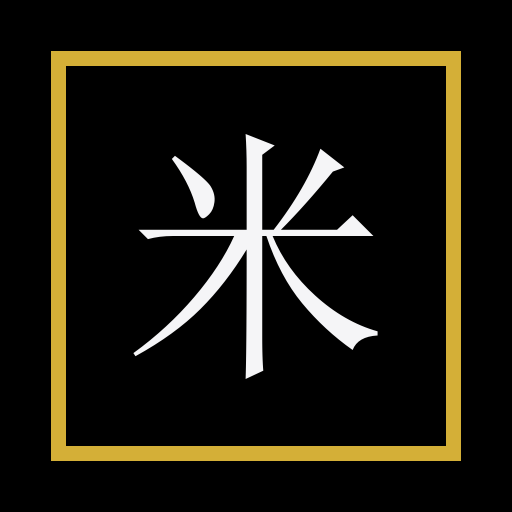
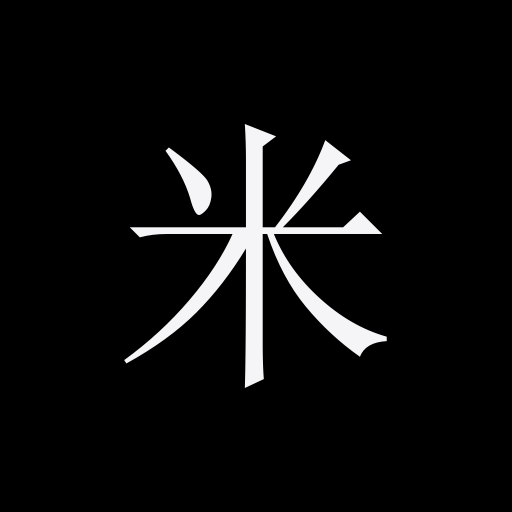
ui: 顶栏移除馆内导航，画框去金改无框「抬起」
- 首页/逐图页顶栏删「展厅/前言/库房」跳链（生成器同步），只剩馆名与右侧动作
- 卡片与灯箱去 #d4af37 实体金框：照片贴边、圆角 --r-md + 分层投影（与序厅/逐图页同语言）
- 品牌资产（图标/og）随去金重绘：纯字形图标 + 无框分享图
- e2e 改写画心几何断言为「贴边无框」并新增灯箱无框契约（红态验证过）；README/AGENTS 同步

diff --git a/styles.css b/styles.css
@@ -290,24 +290,6 @@
     text-decoration: none;
   }
 
-  .site-nav-links {
-    display: flex;
-    gap: 26px;
-  }
-
-  .site-nav-links a {
-    font-size: 13px;
-    font-weight: 500;
-    letter-spacing: 0.04em;
-    color: var(--text-2);
-    transition: color 0.25s var(--ease);
-  }
-
-  .site-nav-links a:hover {
-    color: var(--text);
-    text-decoration: none;
-  }
-
   /* 主题切换按钮 */
   .theme-toggle {
     appearance: none;
@@ -957,25 +939,21 @@
 
     /* 本盒不裁切：::before 的环境光必须能溢出到卡片之外。
        裁切职责交给 .card-media-glass（只包画心），否则 overflow:hidden
-       会把环境光一并裁掉，只剩框内 4px 可见。 */
+       会把环境光一并裁掉。 */
     overflow: visible;
 
     --card-wall: #1c1c1e;
     --card-glow: rgba(255, 255, 255, 0.08);
     --card-accent: rgba(255, 255, 255, 0.1);
 
-    /* 画心内衬：留出细边，照片不贴边 */
-    --frame-inset: 4px;
-
+    /* 无框画心（2026-10-17 去金框）：照片贴边、圆角 + 分层投影 —— 与序厅/逐图页
+       同一「抬起」语言。金边与内衬（`--frame-inset`）不要加回来。 */
     width: 100%;
     aspect-ratio: 4 / 3;
-    padding: var(--frame-inset);
-    border: 4px solid #d4af37;
-    border-radius: var(--r-lg);
+    border-radius: var(--r-md);
     background: var(--surface);
     box-shadow: var(--shadow-1);
-    transition: box-shadow 0.45s var(--ease), border-color 0.45s var(--ease),
-      transform 0.45s var(--ease);
+    transition: box-shadow 0.45s var(--ease), transform 0.45s var(--ease);
   }
 
   /* D-1：低分辨率母版（短边 ≤ 640 的源，如《夜泊》360×360）画心盒宽钳到源宽 ——
@@ -1005,12 +983,12 @@
     transition: opacity 0.45s var(--ease), transform 0.45s var(--ease);
   }
 
-  /* 画心裁切盒：只承担「hover 缩放不出框」的裁剪 */
+  /* 画心裁切盒：只承担「hover 缩放不出框」的裁剪；贴边，圆角继承画心盒 */
   .card-media-glass {
     position: absolute;
-    inset: var(--frame-inset);
+    inset: 0;
     overflow: hidden;
-    border-radius: calc(var(--r-lg) - var(--frame-inset) - 2px);
+    border-radius: inherit;
   }
 
   .card-media img {
@@ -1030,7 +1008,6 @@
   /* hover / 键盘聚焦 = 抬起 + 环境光变亮 */
   .card:hover .card-media,
   .card:focus-visible .card-media {
-    border-color: var(--hairline);
     box-shadow: var(--shadow-2);
     transform: translateY(-3px);
   }
@@ -1407,11 +1384,10 @@
     -webkit-user-select: none;
   }
 
-  /* 画作容器：图不得大于框 */
+  /* 画作容器：图不得大于框。无框「抬起」（2026-10-17 去金框）：盒子即画心，
+     只有圆角与投影 —— 金边 / 内衬 / 金底不要加回来（`frameCaps` 读的是
+     .lightbox-img 的计算 max-width/height，与这里的 --frame-max-* 同源）。 */
   .lightbox-frame {
-    --frame-pad: 6px;
-    --frame-border: 4px;
-
     /* 观画室放足画面：上限取 72vh，竖构图才撑得开（横构图先触 940px 宽度限） */
     --frame-max-w: min(86vw, 940px);
     --frame-max-h: min(72vh, 760px);
@@ -1425,16 +1401,13 @@
     display: flex;
     align-items: center;
     justify-content: center;
-    padding: var(--frame-pad);
-    border: var(--frame-border) solid #d4af37;
-    border-radius: 18px;
-    background: color-mix(in oklab, #d4af37 15%, transparent);
-    box-shadow: 0 40px 100px rgba(0, 0, 0, 0.5), inset 0 0 20px rgba(212, 175, 55, 0.25);
+    border-radius: var(--r-md);
+    box-shadow: 0 40px 100px rgba(0, 0, 0, 0.5);
     overflow: hidden;
   }
 
-  /* 观画室：无框反光，只有墙面的环境光。
-     但 .lightbox-frame.is-lit img 的 animation:none 是**生效**的
+  /* 观画室：无框反光，只有墙面的环境光；去金框后这层同时是「画心贴边」的裁剪盒。
+     其中 .lightbox-frame.is-lit img 的 animation:none 是**生效**的
      ——它关掉 .lightbox-img 的 lb-in 入场动画，故保留。 */
   .lightbox-frame.is-lit img {
     animation: none;
@@ -1445,10 +1418,10 @@
     display: block;
     width: auto;
     height: auto;
-    max-width: calc(var(--frame-max-w, 940px) - 2 * var(--frame-pad, 6px) - 2 * var(--frame-border, 4px));
-    max-height: calc(var(--frame-max-h, 760px) - 2 * var(--frame-pad, 6px) - 2 * var(--frame-border, 4px));
+    max-width: var(--frame-max-w, 940px);
+    max-height: var(--frame-max-h, 760px);
     object-fit: contain;
-    border-radius: 12px;
+    border-radius: var(--r-md);
     animation: lb-in 0.4s var(--ease) both;
     transform: translate(var(--lb-tx, 0), var(--lb-ty, 0)) scale(var(--lb-zoom, 1));
     transition: transform 0.35s var(--ease);
@@ -1911,15 +1884,6 @@
       letter-spacing: 0.06em;
     }
 
-    .site-nav-links {
-      gap: 16px;
-    }
-
-    .site-nav-links a {
-      font-size: 12px;
-      letter-spacing: 0.02em;
-    }
-
     /* 展签页：窄屏收边距、题名降一档；两侧占位同步收窄，否则中缝被挤出
        （320px 下 3 段宽度和会超过内容宽导致换行） */
     .work {
@@ -1995,17 +1959,6 @@
       padding: 20px 18px 8px;
     }
 
-    .card-media {
-      border-width: 1px;
-      border-radius: 16px;
-
-      --frame-inset: 3px;
-    }
-
-    .card-media-glass {
-      border-radius: 12px;
-    }
-
     .filter-bar {
       margin: 0 auto 24px;
       padding: 0 16px;
@@ -2040,7 +1993,6 @@
     }
 
     .lightbox-frame {
-      --frame-pad: 4px;
       --frame-max-w: min(94vw, 900px);
       --frame-max-h: min(70vh, 640px);
     }

diff --git a/tests/e2e/smoke.spec.js b/tests/e2e/smoke.spec.js
@@ -1018,17 +1018,23 @@ test.describe("画廊冒烟", () => {
       const media = document.querySelector(".card-media");
       const glass = media.querySelector(".card-media-glass");
       const img = glass.querySelector("img");
-      const border = parseFloat(getComputedStyle(media).borderLeftWidth);
+      const cs = getComputedStyle(media);
       const mediaBox = media.getBoundingClientRect();
+      const glassBox = glass.getBoundingClientRect();
       return {
-        mediaOverflow: getComputedStyle(media).overflow,
+        mediaOverflow: cs.overflow,
         glassOverflow: getComputedStyle(glass).overflow,
         // content-visibility:auto 隐含 paint containment，会把 ::before 溢出的墙面光裁掉；
         // 该 containment 在 getComputedStyle().contain 上不可见，只能锁 content-visibility 本身
         cardContentVisibility: getComputedStyle(media.closest(".card"))
           .contentVisibility,
-        gutter: mediaBox.width - img.getBoundingClientRect().width,
-        expected: border * 2 + 4 * 2,
+        // 去金框后画心贴边（2026-10-17）：画心盒无边框、无内衬，照片与盒同宽
+        mediaBorder: cs.borderLeftWidth,
+        glassInset: { l: glassBox.x - mediaBox.x, t: glassBox.y - mediaBox.y },
+        glassRadius: getComputedStyle(glass).borderRadius,
+        mediaRadius: cs.borderRadius,
+        imgWidth: img.getBoundingClientRect().width,
+        mediaWidth: mediaBox.width,
       };
     });
 
@@ -1037,8 +1043,51 @@ test.describe("画廊冒烟", () => {
     expect(geom.glassOverflow).toBe("hidden");
     // 卡片不得开启会被动裁剪子盒的渲染跳过
     expect(geom.cardContentVisibility).toBe("visible");
-    // 画心几何与拆分前一致：border 2px + --frame-inset 4px，两侧共 12px
-    expect(Math.abs(geom.gutter - geom.expected)).toBeLessThan(0.5);
+    // 无框化：边框为 0、玻璃盒贴边（无内衬）、照片占满画心盒、圆角继承同一值
+    expect(parseFloat(geom.mediaBorder)).toBe(0);
+    expect(Math.abs(geom.glassInset.l)).toBeLessThan(0.5);
+    expect(Math.abs(geom.glassInset.t)).toBeLessThan(0.5);
+    expect(Math.abs(geom.imgWidth - geom.mediaWidth)).toBeLessThan(0.5);
+    expect(geom.glassRadius).toBe(geom.mediaRadius);
+  });
+
+  test("观画室同构无框：灯箱画框无边框无内衬，盒子即画心（去金框回归）", async ({ page }) => {
+    await page.setViewportSize({ width: 1280, height: 900 });
+    await page.goto("/");
+    await expect(page.locator(".card")).toHaveCount(18);
+    await page.locator(".card").first().click();
+    await expect(page.locator("#lightbox")).toBeVisible();
+    // 尺寸由真实位图决定：等解码完成再量盒子，否则量到的是加载前的塌缩盒（0×0）
+    await page.waitForFunction(() => {
+      const img = document.getElementById("lbImg");
+      return Boolean(img && img.complete && img.naturalWidth > 0);
+    });
+
+    const geom = await page.evaluate(() => {
+      const frame = document.querySelector(".lightbox-frame");
+      const img = document.getElementById("lbImg");
+      const cs = getComputedStyle(frame);
+      return {
+        border: cs.borderLeftWidth,
+        padding: cs.paddingLeft,
+        background: cs.backgroundColor,
+        // 无内衬后画框盒 = 画心盒：偏移 0、尺寸相等。
+        // 用 offset*（布局量）而非 getBoundingClientRect——后者含 lb-enter 入场
+        // 动画的 scale(0.96→1)「视觉」变换，动画中途量到的矩形必然小于布局盒。
+        offset: { l: img.offsetLeft, t: img.offsetTop },
+        fw: frame.offsetWidth,
+        fh: frame.offsetHeight,
+        iw: img.offsetWidth,
+        ih: img.offsetHeight,
+      };
+    });
+
+    expect(parseFloat(geom.border)).toBe(0);
+    expect(parseFloat(geom.padding)).toBe(0);
+    expect(geom.background).toBe("rgba(0, 0, 0, 0)");
+    expect(geom.offset).toEqual({ l: 0, t: 0 });
+    expect(geom.iw).toBe(geom.fw);
+    expect(geom.ih).toBe(geom.fh);
   });
 
   test("窄屏箭头隐藏且不覆盖画心，翻页交回手势", async ({ page }) => {

diff --git a/index.html b/index.html
@@ -114,12 +114,9 @@
   <a class="skip-link" href="#gallery">跳到展厅</a>
   <header class="site-nav" id="siteNav">
     <div class="site-nav-inner">
+      <!-- 顶栏不设馆内导航（2026-10-17 起）：序厅大字/滚动陈列本身就是入口，
+           「展厅 / 前言 / 库房」三个跳链已按站主反馈移除。逐图页同构（见 gen_work_pages.mjs）。 -->
       <a class="site-nav-logo" href="#">米兰美术馆</a>
-      <nav class="site-nav-links" aria-label="馆内导航">
-        <a href="#gallery">展厅</a>
-        <a href="#about">前言</a>
-        <a href="#archive">库房</a>
-      </nav>
       <div class="site-nav-actions">
         <!-- 安装到桌面：默认隐藏。beforeinstallprompt 不是 Baseline（Firefox / iOS
              Safari 不派发），只有它真的到来才说明此刻这台浏览器可安装 —— 时序由

diff --git a/tools/gen_assets.py b/tools/gen_assets.py
@@ -2,10 +2,11 @@
 
 幂等：python tools/gen_assets.py 直接重新生成。
 
-配色取当前视觉语言的 token（2026-10-16 重绘：Apple 式中性表面 + 金色实体画框）：
+配色取当前视觉语言的 token（2026-10-17 重绘：画框去金化，品牌图随之一并去框）：
 黑底是暗色主题的 --bg（styles.css 的 `--bg: light-dark(#fff, #000)`），
-金框取画框色（.card-media / .lightbox-frame 的 `#d4af37`），字色是暗色侧的
---text。**不要**写回旧的墨绿（`#1f2a24` 系列）——那是已退役的「油画馆」时期的配色。
+字色是暗色侧的 --text（IVORY），副题与分隔线走中性灰。
+**不要**写回旧的墨绿（`#1f2a24` 系列）或 2026-10-16 的金框（`#d4af37`）——
+两者都是已退役的时期配色（金框随 2026-10-17 的画框重设计一起退役）。
 """
 from __future__ import annotations
 
@@ -17,10 +18,9 @@ ROOT = Path(__file__).resolve().parents[1]
 OUT = ROOT / "assets"
 
 INK = (0, 0, 0)  # 底色：暗色主题的 --bg
-GOLD = (212, 175, 55)  # 金框 #d4af37（画框的实体金边）
-GOLD_DARK = (138, 111, 42)  # 双线内框（og 分享图用）
 IVORY = (245, 245, 247)  # 题名字色：暗色侧的 --text
 GRAY = (161, 161, 166)  # 副题色：暗色侧的 --text-2
+LINE = (110, 110, 115)  # 分隔线：中性灰（画框去金后不再有金色点缀）
 
 
 def font(size: int) -> ImageFont.FreeTypeFont:
@@ -32,17 +32,11 @@ def font(size: int) -> ImageFont.FreeTypeFont:
     return ImageFont.load_default()
 
 
-def icon(size: int, *, border_ratio: float, glyph_ratio: float) -> Image.Image:
+def icon(size: int, *, glyph_ratio: float) -> Image.Image:
+    """纯字形图标：黑底 + 米字。不再画框 —— 边框曾是金框时期的呼应，
+    已随画框「去框化」退役（画框 = 圆角 + 投影，没有边框可呼应）。"""
     img = Image.new("RGB", (size, size), INK)
     d = ImageDraw.Draw(img)
-    if border_ratio > 0:
-        inset = int(size * border_ratio)
-        width = max(2, int(size * 0.03))
-        d.rectangle(
-            [inset, inset, size - inset - 1, size - inset - 1],
-            outline=GOLD,
-            width=width,
-        )
     f = font(int(size * glyph_ratio))
     d.text((size / 2, size / 2), "米", font=f, fill=IVORY, anchor="mm")
     return img
@@ -52,9 +46,7 @@ def og() -> Image.Image:
     w, h = 1200, 630
     img = Image.new("RGB", (w, h), INK)
     d = ImageDraw.Draw(img)
-    # 双线画框（外金内暗金，与灯箱的半透明金底同构）
-    d.rectangle([28, 28, w - 29, h - 29], outline=GOLD, width=3)
-    d.rectangle([40, 40, w - 41, h - 41], outline=GOLD_DARK, width=1)
+    # 无框分享图（2026-10-17 去金化）：只有字与一条中性分隔线
     d.text((w / 2, 245), "米兰美术馆", font=font(96), fill=IVORY, anchor="mm")
     d.text(
         (w / 2, 340),
@@ -63,12 +55,12 @@ def og() -> Image.Image:
         fill=GRAY,
         anchor="mm",
     )
-    d.line([(w / 2 - 170, 400), (w / 2 + 170, 400)], fill=GOLD_DARK, width=1)
+    d.line([(w / 2 - 170, 400), (w / 2 + 170, 400)], fill=LINE, width=1)
     d.text(
         (w / 2, 445),
         "iloat20.github.io/milan-photos",
         font=font(22),
-        fill=GOLD,
+        fill=GRAY,
         anchor="mm",
     )
     return img
@@ -76,12 +68,12 @@ def og() -> Image.Image:
 
 def main() -> None:
     OUT.mkdir(exist_ok=True)
-    icon(192, border_ratio=0.10, glyph_ratio=0.52).save(OUT / "icon-192.png")
-    icon(512, border_ratio=0.10, glyph_ratio=0.52).save(OUT / "icon-512.png")
-    # maskable：内容收进中央 80% 安全区，不画边框（边框会被系统裁切）
-    icon(512, border_ratio=0, glyph_ratio=0.44).save(OUT / "icon-maskable-512.png")
-    icon(180, border_ratio=0.11, glyph_ratio=0.52).save(OUT / "apple-touch-icon.png")
-    icon(32, border_ratio=0, glyph_ratio=0.66).save(OUT / "favicon-32.png")
+    icon(192, glyph_ratio=0.56).save(OUT / "icon-192.png")
+    icon(512, glyph_ratio=0.56).save(OUT / "icon-512.png")
+    # maskable：内容收进中央 80% 安全区
+    icon(512, glyph_ratio=0.44).save(OUT / "icon-maskable-512.png")
+    icon(180, glyph_ratio=0.56).save(OUT / "apple-touch-icon.png")
+    icon(32, glyph_ratio=0.66).save(OUT / "favicon-32.png")
     og().save(OUT / "og.jpg", quality=88, optimize=True)
     for p in sorted(OUT.iterdir()):
         print(p.name, p.stat().st_size)

diff --git a/AGENTS.md b/AGENTS.md
@@ -209,20 +209,20 @@ CSP 的**单一来源**是 `tools/csp.mjs`：主页由 vite 插件注入 `dist/i
 历史记录：旧版曾用一份 `display: none !important` 清单（藏 `.hero-kicker` / `.chapter-sub` / `.card-meta` / `.lb-index` / `.upload-sub` / `.footer-note` 等）做「无字」，其中多数选择器早已无节点（no-op 声明）。2026-09-30 重绘时**清单连同这些死选择器整体删除**——这些名字**不要**再写成样式定义（写了就是新的死 CSS）。
 
 - 环境光取色：**在 sync 阶段预计算**（`photos_lib.photo_palette()` → manifest 的 `palette` 字段，四值 `wall` / `deep` / `glow` / `accent`），客户端只做样式赋值——卡片写 `--card-wall/--card-glow/--card-accent`（`applyCardPalette`），序厅与灯箱写 `--room-adapt*`（`@property` 注册、过渡平滑，见 `styles.css:27` 附近）。同一张画在卡片／序厅／灯箱共用一套色（P1-6 之前三处各采各的，同画三色）。`app.js` 的 `sampleRoomColor()` 退居**回退**，只服务浏览器内上传的图（`photo.custom`，没有 manifest 条目）。取色会按与前景文字的对比度**压暗**，避免亮画把 chrome 冲没。
-- 画框是**金色实体画框**（2026-10-06 `2ba2824` 起）：卡片 = `4px solid #d4af37` + `--frame-inset: 4px` 内衬（照片不贴边）+ `--r-lg`（手机端降为 1px 边 / 16px 圆角 / 3px 内衬），hover / 聚焦时边框转 `--hairline` 并抬升；灯箱同构（`--frame-pad: 6px` / `--frame-border: 4px` / radius 18px，外加半透明金底与内嵌光晕）。规格以 `.card-media` / `.lightbox-frame` 两处为准，**不要**在框面上叠新装饰（会压过画心）。
+- 画框是**无框「抬起」**（2026-10-17 起）：照片贴边、圆角 `--r-md` + 分层投影 —— 与序厅/逐图页本来就是一套语言。卡片 = `.card-media` 无边框无内衬（`--shadow-1` 起，hover/聚焦抬升换 `--shadow-2`）；灯箱同构（`.lightbox-frame` 无 padding / 边框，`.lightbox-img` 上限直接取 `--frame-max-w/h` —— `frameCaps` 读的就是它）。2026-10-06～10-17 期间的「金色实体画框」（4px `#d4af37` + `--frame-inset` 内衬 / `--frame-pad`+`--frame-border`）已按站主反馈退役，**不要**把 `#d4af37` 或这些变量加回来；`tools/gen_assets.py` 的品牌资产随去金化重绘（纯字形图标 + 无框分享图），别再引用金色。
 - 环境光晕落在画框**之外**的四周（`.card-media::before`：径向 `--card-accent`、`opacity .45`、`inset: -28px -20px`、`z-index: -1`），**不要**打在画心上；为此 `.card-media` 自身 `overflow: visible` 不裁切，裁切只交给 `.card-media-glass`（管 hover 缩放不出框）。
 - 画作标题：文件名像相机默认名时显示 `《无题 · NN》`，否则 `《title》`。
 - 观画室的**题下策展说明**（`.lb-caption`，取 `meta.json` 的 `caption`）必须**恒占一行**：`.lightbox-meta` 是 `flex-shrink: 0` 且高度由内容撑开，而空说明确实会遇到（浏览器内上传的图没有 manifest 条目、也就没有 caption；2026-10-10 起馆藏 18 件已全部写完策展说明）—— 空值若用 `display: none`（或干脆不占位），切到无说明的图时上方画框会被挤得**整块跳一下**。空值一律 `visibility: hidden` + `min-height: 1lh`（红态实证：改成 `display: none` 后题名区高度差 26.8px）。护栏是 e2e「题名区高度恒定」那条 —— 只断言「元素不可见」抓不住它。该用例的空说明样本由**页面 JS 层拦 `photos/manifest.json` 自造**（馆藏补齐后清单里已无空样本；该请求归 SW 的 `isManifest` 分支接管，`page.route` 拦不到，故包 `window.fetch`）。取值归 `util.captionText()`（trim 后为空即视为没有，**不**做《无题》式降级）。
 - 展厅按「策展」陈列而非均匀网格：每 7 张末张 `.card.is-feature` 独占整行成为一面墙，宽度由 `--fit`（`applyRowFit()` 写入）反算成 `min(100%, 64vh × --fit)`，保证框与画同比例不出卡纸空洞——**不要**为了网格对齐把它改回普通卡。
-- 卡片的反馈是「抬升 + 光晕变亮」：hover / 键盘聚焦时 `translateY(-3px)` + `--shadow-2` + 边框提亮到 `--hairline`，光晕同步加压（`.card:hover .card-media::before`）；**不要**加回「轨道射灯」式的顶边受光/锥形投影。字体一律走系统栈 `--font`，**不要**再引入 `--display` / `Milan Serif` / woff2 这类字段。
+- 卡片的反馈是「抬升 + 光晕变亮」：hover / 键盘聚焦时 `translateY(-3px)` + `--shadow-2`，光晕同步加压（`.card:hover .card-media::before`）；**不要**加回「轨道射灯」式的顶边受光/锥形投影。字体一律走系统栈 `--font`，**不要**再引入 `--display` / `Milan Serif` / woff2 这类字段。
 - **序厅是策展精选，不是陈列序前 8**（F-3）：`meta.json` 的 `featured` 经 sync 归一进 manifest（排名校验与顶层 `hero` 指针在 `photos_lib`）；序厅取 `selectHeroPhotos()`（有精选按 rank 全序、无精选回落陈列序前 `HERO_MAX`）。预载自 C 组（2026-10-17）起是**构建期静态注入**：`tools/hero-preload.mjs` 按 `hero` 指针把 `<link rel="preload">`（含 `imagesrcset`/`imagesizes`/`type`）写进 `dist/index.html`，解析器扫到即发起、零脚本依赖（dev 形态不跑构建收尾，占位注释原样保留、由 app.js 兜底）；`app.js` 的 `preloadImage` 只在「清单降级 / 直服源码」时兜底（去重按 href 比较，静态标签在场即跳过）。口径一致性由 `util.test.mjs` 真清单契约 + `tests/unit/hero-preload.test.mjs` 对拍。**别**把精选逻辑写回数组截断，也别在 `photos[]` 上重排（会连带动展厅/筛选/逐图页序）。
 - **序厅行为收在 `src/hero.js`**（D7，2026-10-17）：渲染 / 自动轮播（六闸门纯函数 `heroAutoAllowed`）/ 三种暂停（用户 / hover / 观画室会话——`modalPause` **刻意独立于** hover 暂停）/ 手势与邻张解锁 / 灯箱过渡配对源（`sourceFor`）全在 `createHeroCarousel` 工厂闭包；`app.js` 只剩装配（DOM + 端口）与 `hero.render()`、`hero.modalPause()` 两个调用点。横滑 / 悬停暂停 / reduced-motion 三块**尚无 e2e 覆盖**（迁移时手工核对过）——动它们要手动验证；改自动轮播判据先跑 `tests/unit/hero.test.mjs`。
 - **低分辨率母版不放大**（D-1）：母版短边 ≤ `LOW_RES_MAX_EDGE`(640) 的条目，卡片画心盒宽钳到源宽（`.card-media.is-lowres` + 行内 `--card-maxw`，见 `lowResCapWidth()`），重点陈列行也居中小尺幅；灯箱 1× 本就是原生尺寸封顶（`lightboxNeed` 的 min(scale,1)），缩放倍率**不**按图降级。
-- 序厅门厅大字在场时顶栏馆名由 `.site-nav.is-at-hero` 隐去、滚入展厅浮现（避免同屏两次馆名）；隐藏用 `visibility` 是为了退出 Tab 顺序，**别**改成 `opacity: 0`。
+- 序厅门厅大字在场时顶栏馆名由 `.site-nav.is-at-hero` 隐去、滚入展厅浮现（避免同屏两次馆名）；隐藏用 `visibility` 是为了退出 Tab 顺序，**别**改成 `opacity: 0`。顶栏**不设馆内导航**（2026-10-17 起）：只剩馆名与右侧动作（安装 / 主题），「展厅 / 前言 / 库房」跳链已按站主反馈移除 —— 栏目按滚动顺序陈列，逐图页同构（`gen_work_pages.mjs` 同步改），别再把 `.site-nav-links` 加回来。
 
 ### 网格与比例（正名）
 
-- 展厅是 **CSS Grid 规则格 + 细边画心**（`repeat(auto-fill, minmax(260px,1fr))`，见 `.gallery`/`:1271`），**不是** Flickr justified（等高行、不裁切凑满宽），也**不是** CSS masonry/grid-lanes。
+- 展厅是 **CSS Grid 规则格 + 无框画心**（圆角 + 投影，`repeat(auto-fill, minmax(260px,1fr))`，见 `.gallery`/`:1271`），**不是** Flickr justified（等高行、不裁切凑满宽），也**不是** CSS masonry/grid-lanes。
 - 画框 `aspect-ratio` 由 `applyRowFit()` 按画心宽高设定，钳制在约 0.55–1.9；未知尺寸时 CSS 默认 4:3。
 - 列表 `.card-media img` 与灯箱均为 `object-fit: contain`：比例与画框不一致时完整显示画心，框内以墙面色信箱化，避免 cover 裁切。
 - `README.md` 若再写「justified」即过时，以本节与代码为准。
